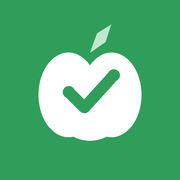
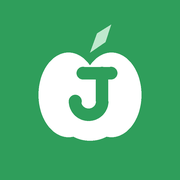
Icono con una J de Julie y edición de nombre y fruta del perfil

Changed region(s): [[0.3333, 0.3611, 0.6667, 0.6944]]

diff --git a/web/js/app.js b/web/js/app.js
@@ -139,7 +139,7 @@ async function router() {
   principal.dataset.pantalla = ruta || 'inicio';   // para los estilos de escritorio
   try {
     await cargarCatalogo();
-    if (!estado.perfil && !['perfiles', 'nuevo'].includes(ruta)) {
+    if (!estado.perfil && !['perfiles', 'nuevo', 'editar'].includes(ruta)) {
       const id = perfilRecordado();
       if (id) estado.perfil = (await datos.listarPerfiles()).find(p => p.id === id) || null;
       if (!estado.perfil) return ir('perfiles');
@@ -151,6 +151,7 @@ async function router() {
     switch (ruta) {
       case 'perfiles': return pantallaPerfiles(args[0] === 'gestionar');
       case 'nuevo': return pantallaNuevoPerfil();
+      case 'editar': return pantallaEditarPerfil(args[0]);
       case 'libro': return pantallaLibro(args[0]);
       case 'config': return pantallaConfig(args[0]);
       case 'test': return estado.sesion ? pantallaPregunta() : ir('inicio');
@@ -196,7 +197,10 @@ async function pantallaPerfiles(gestionar = false) {
             <span class="perfil-avatar" aria-hidden="true">${esc(p.avatar)}</span>
             <span class="perfil-nombre">${esc(p.nombre)}</span>
           </button>
-          ${gestionar ? `<button class="perfil-borrar" type="button" data-borrar="${p.id}" aria-label="Borrar el perfil de ${esc(p.nombre)}">Borrar</button>` : ''}
+          ${gestionar ? `<div class="perfil-gestion">
+            <a class="perfil-editar" href="#/editar/${p.id}" aria-label="Editar el perfil de ${esc(p.nombre)}">✏ Editar</a>
+            <button class="perfil-borrar" type="button" data-borrar="${p.id}" aria-label="Borrar el perfil de ${esc(p.nombre)}">Borrar</button>
+          </div>` : ''}
         </li>`).join('')}
       <li><a class="perfil perfil-nuevo" href="#/nuevo"><span class="perfil-avatar" aria-hidden="true">＋</span><span class="perfil-nombre">Nuevo perfil</span></a></li>
     </ul>
@@ -219,40 +223,65 @@ async function pantallaPerfiles(gestionar = false) {
 
 function pantallaNuevoPerfil() {
   estado.perfil = null;
+  formularioPerfil(null);
+}
+
+async function pantallaEditarPerfil(id) {
+  cargando();
+  const p = (await datos.listarPerfiles()).find(x => x.id === id);
+  if (!p) return ir('perfiles');
+  formularioPerfil(p);
+}
+
+// Crear (p = null) o editar (p = perfil existente) nombre y fruta
+function formularioPerfil(p) {
+  const editar = !!p;
+  const actual = editar ? Math.max(0, AVATARES.findIndex(([a]) => a === p.avatar)) : 0;
+  const esPropio = editar && estado.perfil?.id === p.id;
+  const volver = esPropio ? 'inicio' : editar ? 'perfiles/gestionar' : 'perfiles';
+  const textoBoton = editar ? 'Guardar cambios' : 'Crear y empezar';
   pintar(`
     <form class="tarjeta formulario" id="form-perfil" novalidate>
-      <h1>Nuevo perfil</h1>
+      <h1>${editar ? 'Editar perfil' : 'Nuevo perfil'}</h1>
       <label class="campo">
-        <span>¿Cómo te llamas?</span>
-        <input id="nombre" name="nombre" type="text" maxlength="40" autocomplete="given-name" autocapitalize="words" required placeholder="Por ejemplo, Julie">
+        <span>${editar ? 'Nombre' : '¿Cómo te llamas?'}</span>
+        <input id="nombre" name="nombre" type="text" maxlength="40" autocomplete="given-name" autocapitalize="words" required placeholder="Por ejemplo, Julie" value="${editar ? esc(p.nombre) : ''}">
       </label>
       <fieldset class="campo">
         <legend>Elige tu fruta</legend>
         <div class="avatares">
           ${AVATARES.map(([a, c], i) => `
             <label class="avatar-opcion" style="--c:${c}">
-              <input type="radio" name="avatar" value="${i}" ${i === 0 ? 'checked' : ''}>
+              <input type="radio" name="avatar" value="${i}" ${i === actual ? 'checked' : ''}>
               <span aria-hidden="true">${a}</span><span class="solo-lector">${a}</span>
             </label>`).join('')}
         </div>
       </fieldset>
       <p class="error-campo" id="error-nombre" role="alert"></p>
-      <button class="boton boton-grande" type="submit">Crear y empezar</button>
-    </form>`, { volver: 'perfiles', titulo: 'Nuevo perfil' });
-  $('#nombre').focus();
+      <button class="boton boton-grande" type="submit">${textoBoton}</button>
+      ${editar ? `<a class="enlace-suave centro" href="#/${volver}">Cancelar</a>` : ''}
+    </form>`, { volver, titulo: editar ? 'Editar perfil' : 'Nuevo perfil' });
+  if (!editar) $('#nombre').focus();
   $('#form-perfil').onsubmit = async (ev) => {
     ev.preventDefault();
     const nombre = $('#nombre').value.trim();
     if (!nombre) { $('#error-nombre').textContent = 'Escribe un nombre para el perfil.'; $('#nombre').focus(); return; }
     const [avatar, color] = AVATARES[Number(new FormData(ev.target).get('avatar'))];
     const boton = $('button[type=submit]', ev.target);
-    boton.disabled = true; boton.textContent = 'Creando…';
+    boton.disabled = true; boton.textContent = 'Guardando…';
     try {
-      estado.perfil = await datos.crearPerfil({ nombre, avatar, color });
-      recordarPerfil(estado.perfil.id);
-      avisar(`¡Bienvenida, ${nombre}!`);
-      ir('inicio');
-    } catch (e) { boton.disabled = false; boton.textContent = 'Crear y empezar'; error(e); }
+      if (editar) {
+        const nuevo = await datos.actualizarPerfil(p.id, { nombre, avatar, color });
+        if (esPropio) estado.perfil = nuevo;
+        avisar('Perfil actualizado');
+        ir(volver);
+      } else {
+        estado.perfil = await datos.crearPerfil({ nombre, avatar, color });
+        recordarPerfil(estado.perfil.id);
+        avisar(`¡Bienvenida, ${nombre}!`);
+        ir('inicio');
+      }
+    } catch (e) { boton.disabled = false; boton.textContent = textoBoton; error(e); }
   };
 }
 
@@ -272,7 +301,10 @@ async function pantallaInicio() {
   pintar(`
     <div class="inicio">
     <section class="saludo inicio-saludo">
-      <h1>¡Hola, ${esc(estado.perfil.nombre)}! <span aria-hidden="true">👋</span></h1>
+      <div class="saludo-cabecera">
+        <h1>¡Hola, ${esc(estado.perfil.nombre)}! <span aria-hidden="true">👋</span></h1>
+        <a class="enlace-suave" href="#/editar/${estado.perfil.id}" aria-label="Editar mi perfil (nombre y fruta)">✏ Editar</a>
+      </div>
       <div class="racha ${racha ? 'activa' : ''}">
         <span class="racha-fuego" aria-hidden="true">🔥</span>
         <div>

diff --git a/web/js/datos.js b/web/js/datos.js
@@ -90,6 +90,7 @@ const remoto = {
   listarPerfiles: () => api('perfiles?select=*&order=nombre.asc'),
   crearPerfil: async (p) => (await api('perfiles', { metodo: 'POST', cuerpo: p, prefer: 'return=representation' }))[0],
   borrarPerfil: (id) => api(`perfiles?id=eq.${id}`, { metodo: 'DELETE' }),
+  actualizarPerfil: async (id, cambios) => (await api(`perfiles?id=eq.${id}`, { metodo: 'PATCH', cuerpo: cambios, prefer: 'return=representation' }))[0],
   guardarRespuesta: (r) => insertarConCola('respuestas', r, 'r'),
   guardarExamen: (e) => insertarConCola('examenes', e, 'e'),
   progresoTemas: (id) => api(`progreso_temas?perfil_id=eq.${id}&select=libro,tema,respondidas,aciertos,vistas,dominadas`),
@@ -135,6 +136,11 @@ const local = {
     const nuevo = { ...p, id: crypto.randomUUID(), creado_en: new Date().toISOString() };
     escribir(L.perfiles, [...leer(L.perfiles, []), nuevo]);
     return nuevo;
+  },
+  async actualizarPerfil(id, cambios) {
+    const lista = leer(L.perfiles, []).map(p => (p.id === id ? { ...p, ...cambios } : p));
+    escribir(L.perfiles, lista);
+    return lista.find(p => p.id === id);
   },
   async borrarPerfil(id) {
     escribir(L.perfiles, leer(L.perfiles, []).filter(p => p.id !== id));

diff --git a/web/css/estilos.css b/web/css/estilos.css
@@ -591,3 +591,15 @@ a.fila-examen:hover { box-shadow: 0 0 0 2px var(--primario), var(--sombra); }
   .lista-examenes { display: grid; grid-template-columns: 1fr 1fr; gap: 12px; }
   .est-extra .lista-examenes { grid-template-columns: 1fr; }
 }
+
+/* ---------- Editar perfil ---------- */
+.saludo-cabecera { display: flex; align-items: center; justify-content: space-between; gap: 8px; margin-bottom: .5em; }
+.saludo-cabecera h1 { margin: 0; }
+.saludo-cabecera .enlace-suave { flex: none; text-decoration: none; }
+.perfil-gestion { display: flex; gap: 6px; }
+.perfil-gestion > * { flex: 1; font-size: .9rem; white-space: nowrap; padding: 0 6px; }
+.perfil-editar {
+  display: grid; place-items: center; min-height: 44px; border-radius: 999px; font-weight: 800; text-decoration: none;
+  background: var(--primario-suave); color: var(--primario-fuerte);
+}
+.formulario > .enlace-suave { align-self: center; }

diff --git a/scripts/generar_iconos.py b/scripts/generar_iconos.py
@@ -22,11 +22,16 @@ def icono(tam: int, redondeo: bool = True) -> Image.Image:
     d.ellipse([170 * k, 260 * k, 342 * k, 400 * k], fill=BLANCO)
     # Hoja
     d.polygon([(256 * k, 150 * k), (276 * k, 95 * k), (316 * k, 70 * k), (300 * k, 120 * k)], fill=VERDE_CLARO)
-    # Check
-    d.line([(196 * k, 262 * k), (240 * k, 306 * k), (324 * k, 214 * k)], fill=VERDE, width=int(34 * k), joint="curve")
-    for x, y in [(196, 262), (324, 214)]:
-        r = 17 * k
-        d.ellipse([x * k - r, y * k - r, x * k + r, y * k + r], fill=VERDE)
+    # J de Julie: barra superior + palo + curva inferior (mismo trazo que icono.svg)
+    g = 36  # grosor
+    d.line([(236 * k, 208 * k), (316 * k, 208 * k)], fill=VERDE, width=int(g * k))
+    d.line([(290 * k, 208 * k), (290 * k, 288 * k)], fill=VERDE, width=int(g * k))
+    cx, cy, r = 252, 288, 38
+    ext = r + g / 2
+    d.arc([(cx - ext) * k, (cy - ext) * k, (cx + ext) * k, (cy + ext) * k], 0, 180, fill=VERDE, width=int(g * k))
+    for x, y in [(236, 208), (316, 208), (214, 288), (290, 208)]:  # extremos redondeados
+        rr = g / 2 * k
+        d.ellipse([x * k - rr, y * k - rr, x * k + rr, y * k + rr], fill=VERDE)
     return img.resize((tam, tam), Image.LANCZOS)
 
 
